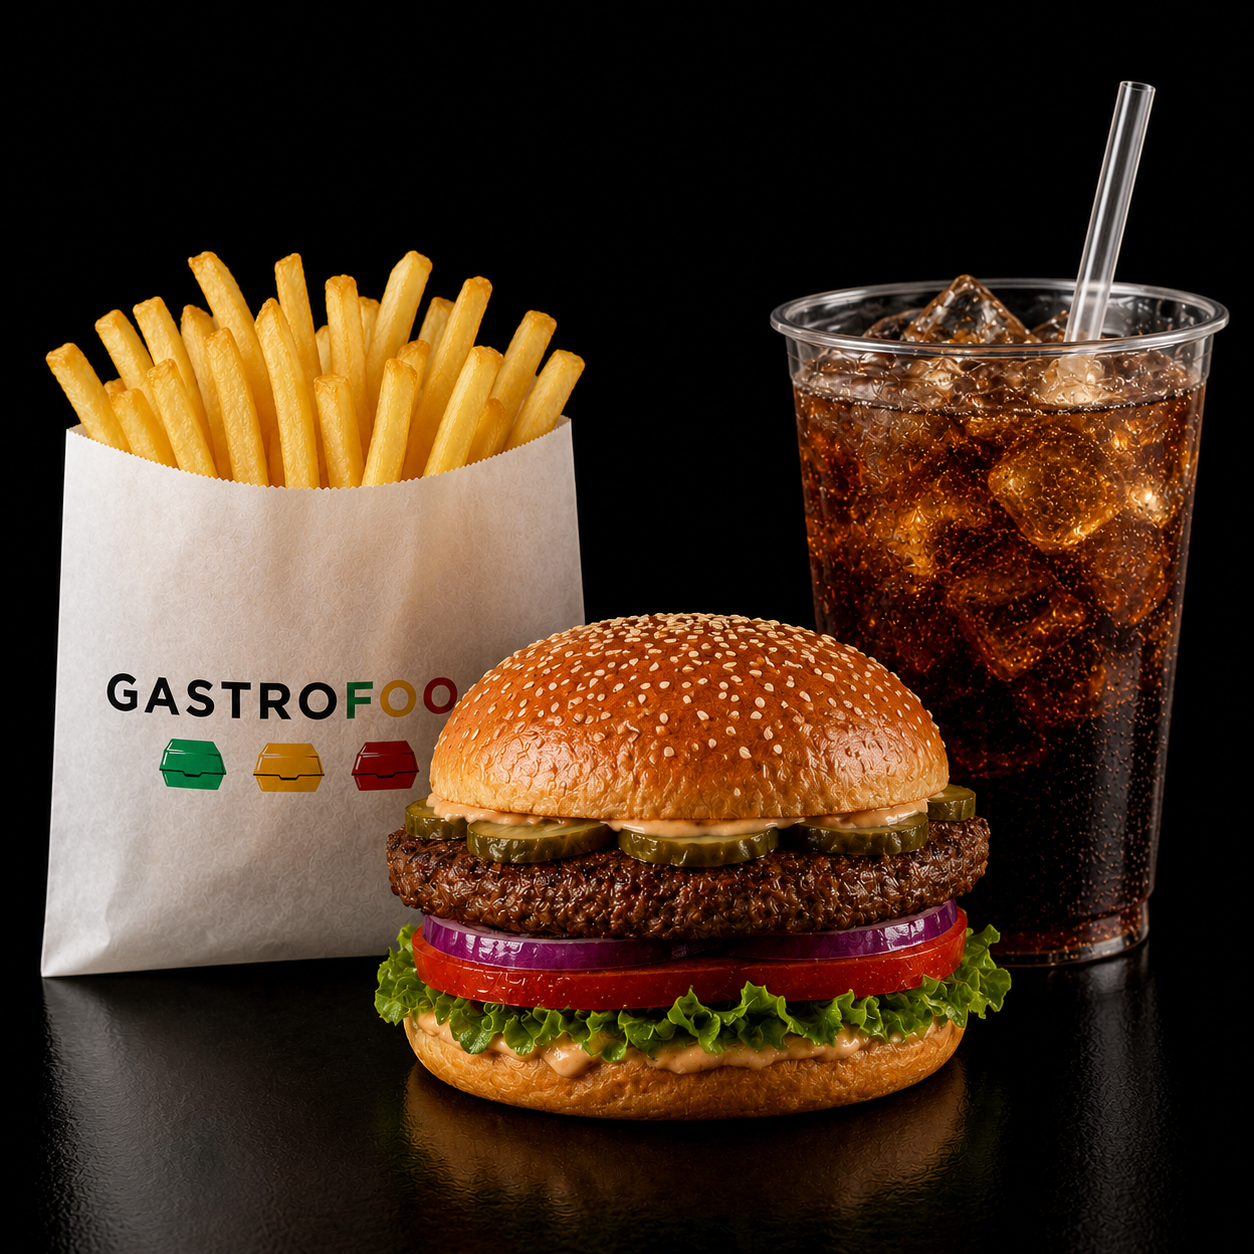
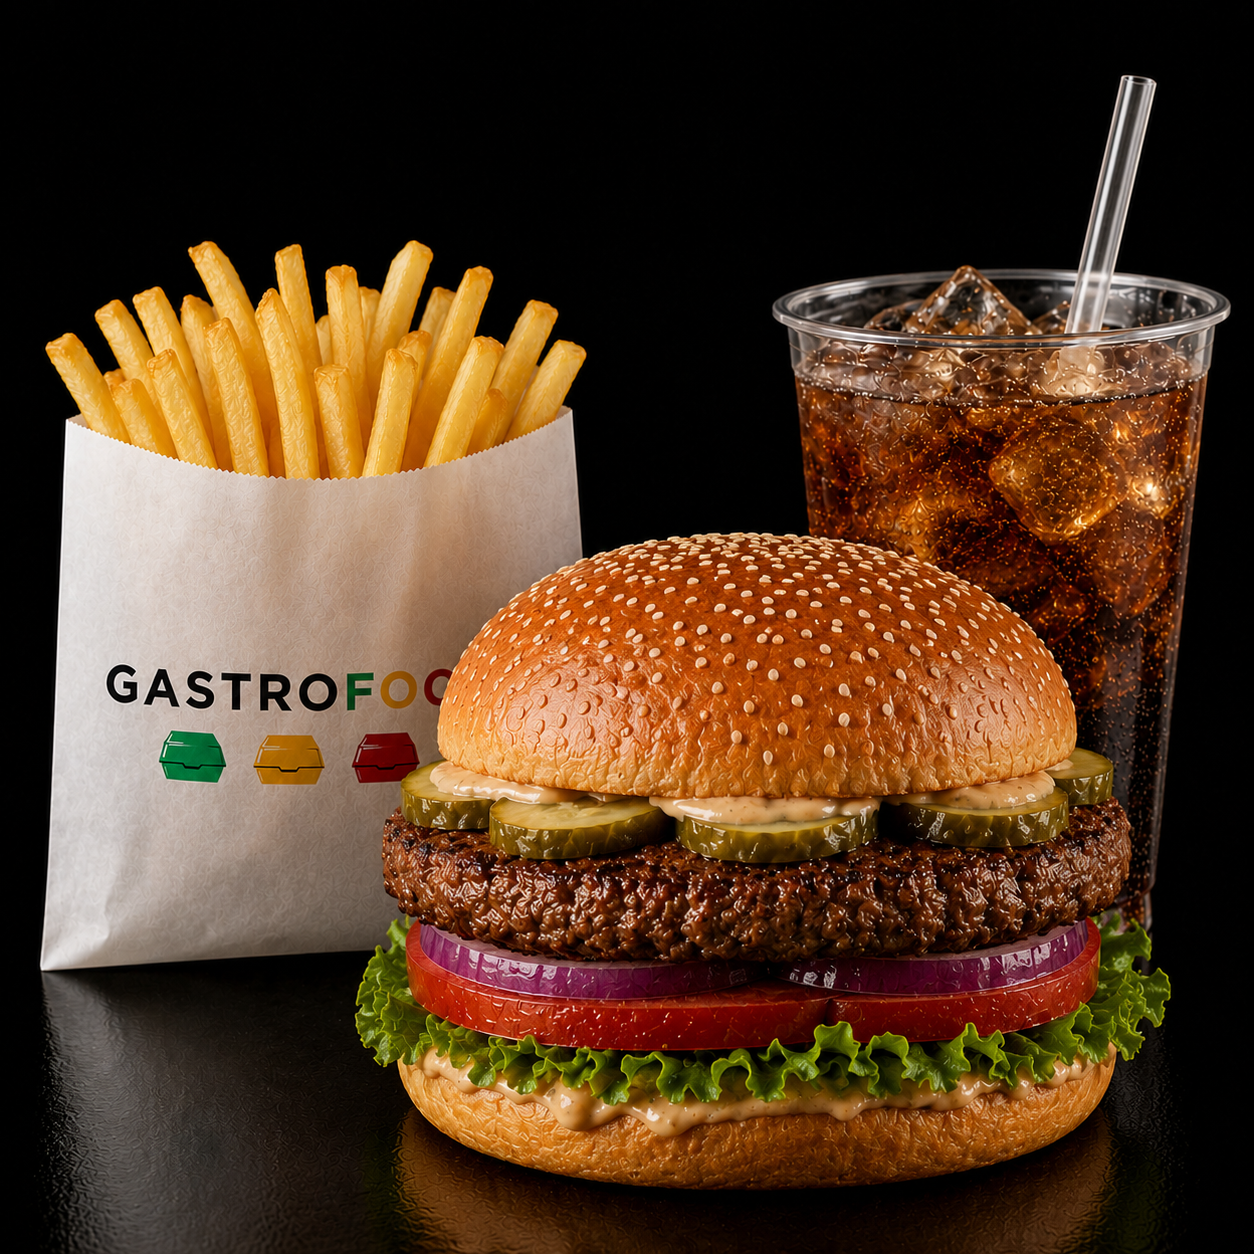
feat: refresh burger combo, unify bottom nav, combos in food menu

diff --git a/src/components/BottomNav.tsx b/src/components/BottomNav.tsx
@@ -7,19 +7,22 @@ import { useTheme } from "@/components/ThemeProvider";
 import { abandonDurakStoredRoom } from "@/lib/durak/activeRoomStorage";
 import type { MenuPeriod } from "@/lib/utils";
 import { cn } from "@/lib/utils";
-import { getAssetUrl } from "@/lib/appVersion";
-import { SmartImage } from "@/components/SmartImage";
 import { useTranslation } from "@/lib/useTranslation";
-import { HOOKAH_MENU_ENABLED } from "@/lib/menuFeatures";
 
-const ALL_TABS: { id: MenuPeriod; tkey: string }[] = [
-  { id: "bar", tkey: "bar" },
-  { id: "hookahs", tkey: "hookah" },
-  { id: "promo", tkey: "tab_promo" },
-  { id: "favorites", tkey: "favorites" },
+type NavTab =
+  | { id: "food"; tkey: "tab_food"; icon: string; href: string }
+  | { id: "combo"; tkey: "tab_combo"; icon: string; href: string }
+  | { id: "bar"; tkey: "bar"; icon: string; period: MenuPeriod }
+  | { id: "favorites"; tkey: "favorites"; icon: string; period: MenuPeriod }
+  | { id: "games"; tkey: "tab_games"; icon: string; href: string };
+
+const NAV_TABS: NavTab[] = [
+  { id: "food", tkey: "tab_food", icon: "🍔", href: "/food" },
+  { id: "combo", tkey: "tab_combo", icon: "🍱", href: "/food?section=combo" },
+  { id: "bar", tkey: "bar", icon: "🍸", period: "bar" },
+  { id: "favorites", tkey: "favorites", icon: "❤️", period: "favorites" },
+  { id: "games", tkey: "tab_games", icon: "🎯", href: "/games" },
 ];
-
-const TABS = ALL_TABS.filter((tab) => tab.id !== "hookahs" || HOOKAH_MENU_ENABLED);
 
 export function BottomNav() {
   const { t } = useTranslation();
@@ -35,6 +38,43 @@ export function BottomNav() {
     if (path !== "/") router.push("/");
   };
 
+  const tabClass = (active: boolean, games = false) =>
+    cn(
+      "relative flex flex-col items-center justify-center gap-0.5 rounded-full px-0.5 py-1.5 text-[12px] font-medium transition-all sm:px-1 sm:py-2",
+      games
+        ? "min-w-[3.25rem] shrink-0 sm:min-w-[3.5rem]"
+        : "min-w-[2.85rem] flex-1 sm:min-w-0",
+      active ? "bg-white text-black shadow-sm" : "text-white/70 hover:text-white",
+    );
+
+  const labelClass = "max-w-[3.5rem] text-center text-[8px] leading-tight sm:max-w-none sm:whitespace-nowrap sm:text-[10px]";
+
+  const iconMotion = (tabId: NavTab["id"], active: boolean) => (
+    <motion.span
+      className="inline-flex min-h-[1.25em] items-center justify-center text-[1.05rem] leading-none sm:text-[1.1rem]"
+      animate={
+        active
+          ? tabId === "bar"
+            ? { scale: [1, 1.35, 1], rotate: [0, -10, 10, 0], y: [0, -2, 0] }
+            : tabId === "favorites"
+              ? { scale: [1, 1.2, 1] }
+              : { scale: [1, 1.25, 1], y: [0, -3, 0] }
+          : { scale: 1, rotate: 0, y: 0, opacity: 1 }
+      }
+      transition={
+        active
+          ? {
+              duration: tabId === "bar" ? 0.9 : tabId === "favorites" ? 0.6 : 0.7,
+              repeat: Infinity,
+              ease: "easeInOut",
+            }
+          : { duration: 0.2 }
+      }
+    >
+      {NAV_TABS.find((tab) => tab.id === tabId)?.icon}
+    </motion.span>
+  );
+
   return (
     <motion.nav
       initial={{ opacity: 1, y: 0 }}
@@ -45,101 +85,43 @@ export function BottomNav() {
         onGames ? "z-[1180]" : "z-40",
       )}
     >
-      <div className="pointer-events-auto mx-auto flex w-[min(24.5rem,calc(100vw-1rem))] max-w-none flex-nowrap items-center justify-between gap-0 rounded-full bg-white/10 px-1.5 py-1.5 text-sm text-white shadow-[0_18px_60px_rgba(0,0,0,0.9)] backdrop-blur-md sm:w-[min(26rem,calc(100vw-2rem))] sm:gap-0.5 sm:px-2 sm:py-2">
-        {TABS.map((tab) => {
-          const active = !onGames && tab.id === period;
+      <div className="pointer-events-auto mx-auto flex w-[min(28rem,calc(100vw-1rem))] max-w-none flex-nowrap items-center justify-between gap-0 rounded-full bg-white/10 px-1.5 py-1.5 text-sm text-white shadow-[0_18px_60px_rgba(0,0,0,0.9)] backdrop-blur-md sm:w-[min(30rem,calc(100vw-2rem))] sm:gap-0.5 sm:px-2 sm:py-2">
+        {NAV_TABS.map((tab) => {
           const label = t(tab.tkey);
+          const active =
+            tab.id === "games"
+              ? onGames
+              : tab.id === "bar"
+                ? !onGames && period === "bar"
+                : tab.id === "favorites"
+                  ? !onGames && period === "favorites"
+                  : false;
+
+          if ("href" in tab) {
+            return (
+              <Link
+                key={tab.id}
+                href={tab.href}
+                className={tabClass(active, tab.id === "games")}
+              >
+                {iconMotion(tab.id, active)}
+                <span className={labelClass}>{label}</span>
+              </Link>
+            );
+          }
+
           return (
             <button
               key={tab.id}
               type="button"
-              onClick={() => goPeriod(tab.id)}
-              className={cn(
-                "relative flex min-w-[2.85rem] flex-1 flex-col items-center justify-center gap-0.5 rounded-full px-0.5 py-1.5 text-[12px] font-medium transition-all sm:min-w-0 sm:px-1 sm:py-2",
-                active
-                  ? "bg-white text-black shadow-sm"
-                  : "text-white/70 hover:text-white"
-              )}
+              onClick={() => goPeriod(tab.period)}
+              className={tabClass(active)}
             >
-              <motion.span
-                className={cn(
-                  "inline-flex min-h-[1.25em] items-center justify-center text-[1.05rem] leading-none sm:text-[1.1rem]",
-                  tab.id === "hookahs" && "min-h-[1.75rem] min-w-[1.75rem]",
-                )}
-                animate={
-                  active
-                    ? tab.id === "bar"
-                      ? {
-                          scale: [1, 1.35, 1],
-                          rotate: [0, -10, 10, 0],
-                          y: [0, -2, 0],
-                        }
-                      : tab.id === "hookahs"
-                        ? {
-                            scale: [1, 1.15, 1],
-                            y: [0, -4, -1, -3, 0],
-                            rotate: [0, -4, 4, -2, 0],
-                            opacity: [1, 0.92, 1, 0.95, 1],
-                          }
-                        : tab.id === "favorites"
-                          ? { scale: [1, 1.2, 1] }
-                          : {
-                              scale: [1, 1.25, 1],
-                              y: [0, -3, 0],
-                            }
-                    : { scale: 1, rotate: 0, y: 0, opacity: 1 }
-                }
-                transition={
-                  active
-                    ? {
-                        duration:
-                          tab.id === "bar" ? 0.9 : tab.id === "hookahs" ? 1.05 : tab.id === "favorites" ? 0.6 : 0.7,
-                        repeat: Infinity,
-                        ease: "easeInOut",
-                      }
-                    : { duration: 0.2 }
-                }
-              >
-                {tab.id === "bar" && "🍸"}
-                {tab.id === "hookahs" && (
-                  <SmartImage
-                    src={getAssetUrl("/hookah/emojie.png")}
-                    alt=""
-                    width={28}
-                    height={28}
-                    draggable={false}
-                    className={cn(
-                      "pointer-events-none h-7 w-7 max-h-[1.75rem] max-w-[1.75rem] select-none object-contain",
-                      /* На тёмной кнопке «убираем» чёрный мат в PNG/JPG; на активной белой — обычное наложение */
-                      active ? "mix-blend-normal" : "mix-blend-screen",
-                    )}
-                  />
-                )}
-                {tab.id === "promo" && "🎉"}
-                {tab.id === "favorites" && "❤️"}
-              </motion.span>
-              <span className="max-w-[3.5rem] text-center text-[8px] leading-tight sm:max-w-none sm:whitespace-nowrap sm:text-[10px]">
-                {label}
-              </span>
+              {iconMotion(tab.id, active)}
+              <span className={labelClass}>{label}</span>
             </button>
           );
         })}
-        <Link
-          href="/games"
-          className={cn(
-            "relative flex min-w-[3.4rem] shrink-0 flex-col items-center justify-center gap-0.5 rounded-full px-1 py-1.5 text-[12px] font-medium transition-all sm:min-w-[3.5rem] sm:px-2 sm:py-2",
-            onGames
-              ? "bg-white text-black shadow-sm"
-              : "text-white/70 hover:text-white"
-          )}
-        >
-          <span className="inline-flex min-h-[1.25em] items-center justify-center text-[1.05rem] leading-none sm:text-[1.1rem]" aria-hidden>
-            🎯
-          </span>
-          <span className="whitespace-nowrap text-center text-[9px] leading-tight sm:text-[10px]">
-            {t("tab_games")}
-          </span>
-        </Link>
       </div>
     </motion.nav>
   );

diff --git a/food/app.js b/food/app.js
@@ -29,6 +29,7 @@ const CATEGORY_LABELS = {
 const FOOD_CATEGORIES = [
   { id: "all", label: "Все" },
   ...FOOD_CATEGORY_IDS.map((id) => ({ id, label: CATEGORY_LABELS[id] })),
+  ...COMBO_CATEGORY_IDS.map((id) => ({ id, label: CATEGORY_LABELS[id] })),
 ];
 
 const COMBO_CATEGORIES = [
@@ -38,8 +39,8 @@ const COMBO_CATEGORIES = [
 
 const BOTTOM_NAV = [
   { id: "food", label: "Еда", icon: "🍔" },
+  { id: "combo", label: "Комбо", icon: "🍱" },
   { id: "bar", label: "Бар", icon: "🍸", href: "/" },
-  { id: "combo", label: "Комбо", icon: "🎁" },
   { id: "favorites", label: "Любимое", icon: "❤️" },
   { id: "games", label: "Игры", icon: "🎯", href: "/games" },
 ];
@@ -521,7 +522,29 @@ function getSectionCategories() {
 
 function getSectionCategoryOrder() {
   if (activeSection === "combo") return COMBO_CATEGORY_IDS;
-  return FOOD_CATEGORY_IDS;
+  if (activeCategory === "all") {
+    return [...FOOD_CATEGORY_IDS, ...COMBO_CATEGORY_IDS];
+  }
+  return [activeCategory];
+}
+
+function readSectionFromUrl() {
+  const section = new URLSearchParams(window.location.search).get("section");
+  if (section === "combo" || section === "favorites") {
+    activeSection = section;
+  } else {
+    activeSection = "food";
+  }
+}
+
+function syncSectionToUrl() {
+  const url = new URL(window.location.href);
+  if (activeSection === "food") {
+    url.searchParams.delete("section");
+  } else {
+    url.searchParams.set("section", activeSection);
+  }
+  window.history.replaceState({}, "", url);
 }
 
 const ARROW_ICON = `
@@ -615,6 +638,7 @@ function renderBottomNav() {
       if (!section || section === activeSection) return;
       activeSection = section;
       activeCategory = "all";
+      syncSectionToUrl();
       renderBottomNav();
       updateCategoryTabsVisibility();
       renderCategoryTabs();
@@ -1016,6 +1040,7 @@ function bindLangMenu() {
 
 function init() {
   favoriteIds = loadFavorites();
+  readSectionFromUrl();
   renderBottomNav();
   updateCategoryTabsVisibility();
   renderCategoryTabs();

diff --git a/src/lib/i18n.ts b/src/lib/i18n.ts
@@ -47,6 +47,8 @@ export const translations: Record<AppLang, Record<string, string>> = {
   ru: {
     menu: "Меню",
     bar: "Бар",
+    tab_food: "Еда",
+    tab_combo: "Комбо",
     hookah: "Кальяны",
     /** Нижняя навигация — вкладка «Акции» (отд. ключ, чтобы гарантированно попадал в t()). */
     tab_promo: "Акции",
@@ -457,6 +459,8 @@ export const translations: Record<AppLang, Record<string, string>> = {
   en: {
     menu: "Menu",
     bar: "Bar",
+    tab_food: "Food",
+    tab_combo: "Combo",
     hookah: "Hookah",
     tab_promo: "Promo",
     promotions: "Promotions",
@@ -846,6 +850,8 @@ export const translations: Record<AppLang, Record<string, string>> = {
   vn: {
     menu: "Menu",
     bar: "Quầy bar",
+    tab_food: "Đồ ăn",
+    tab_combo: "Combo",
     hookah: "Shisha",
     tab_promo: "Ưu đãi",
     promotions: "Khuyến mãi",